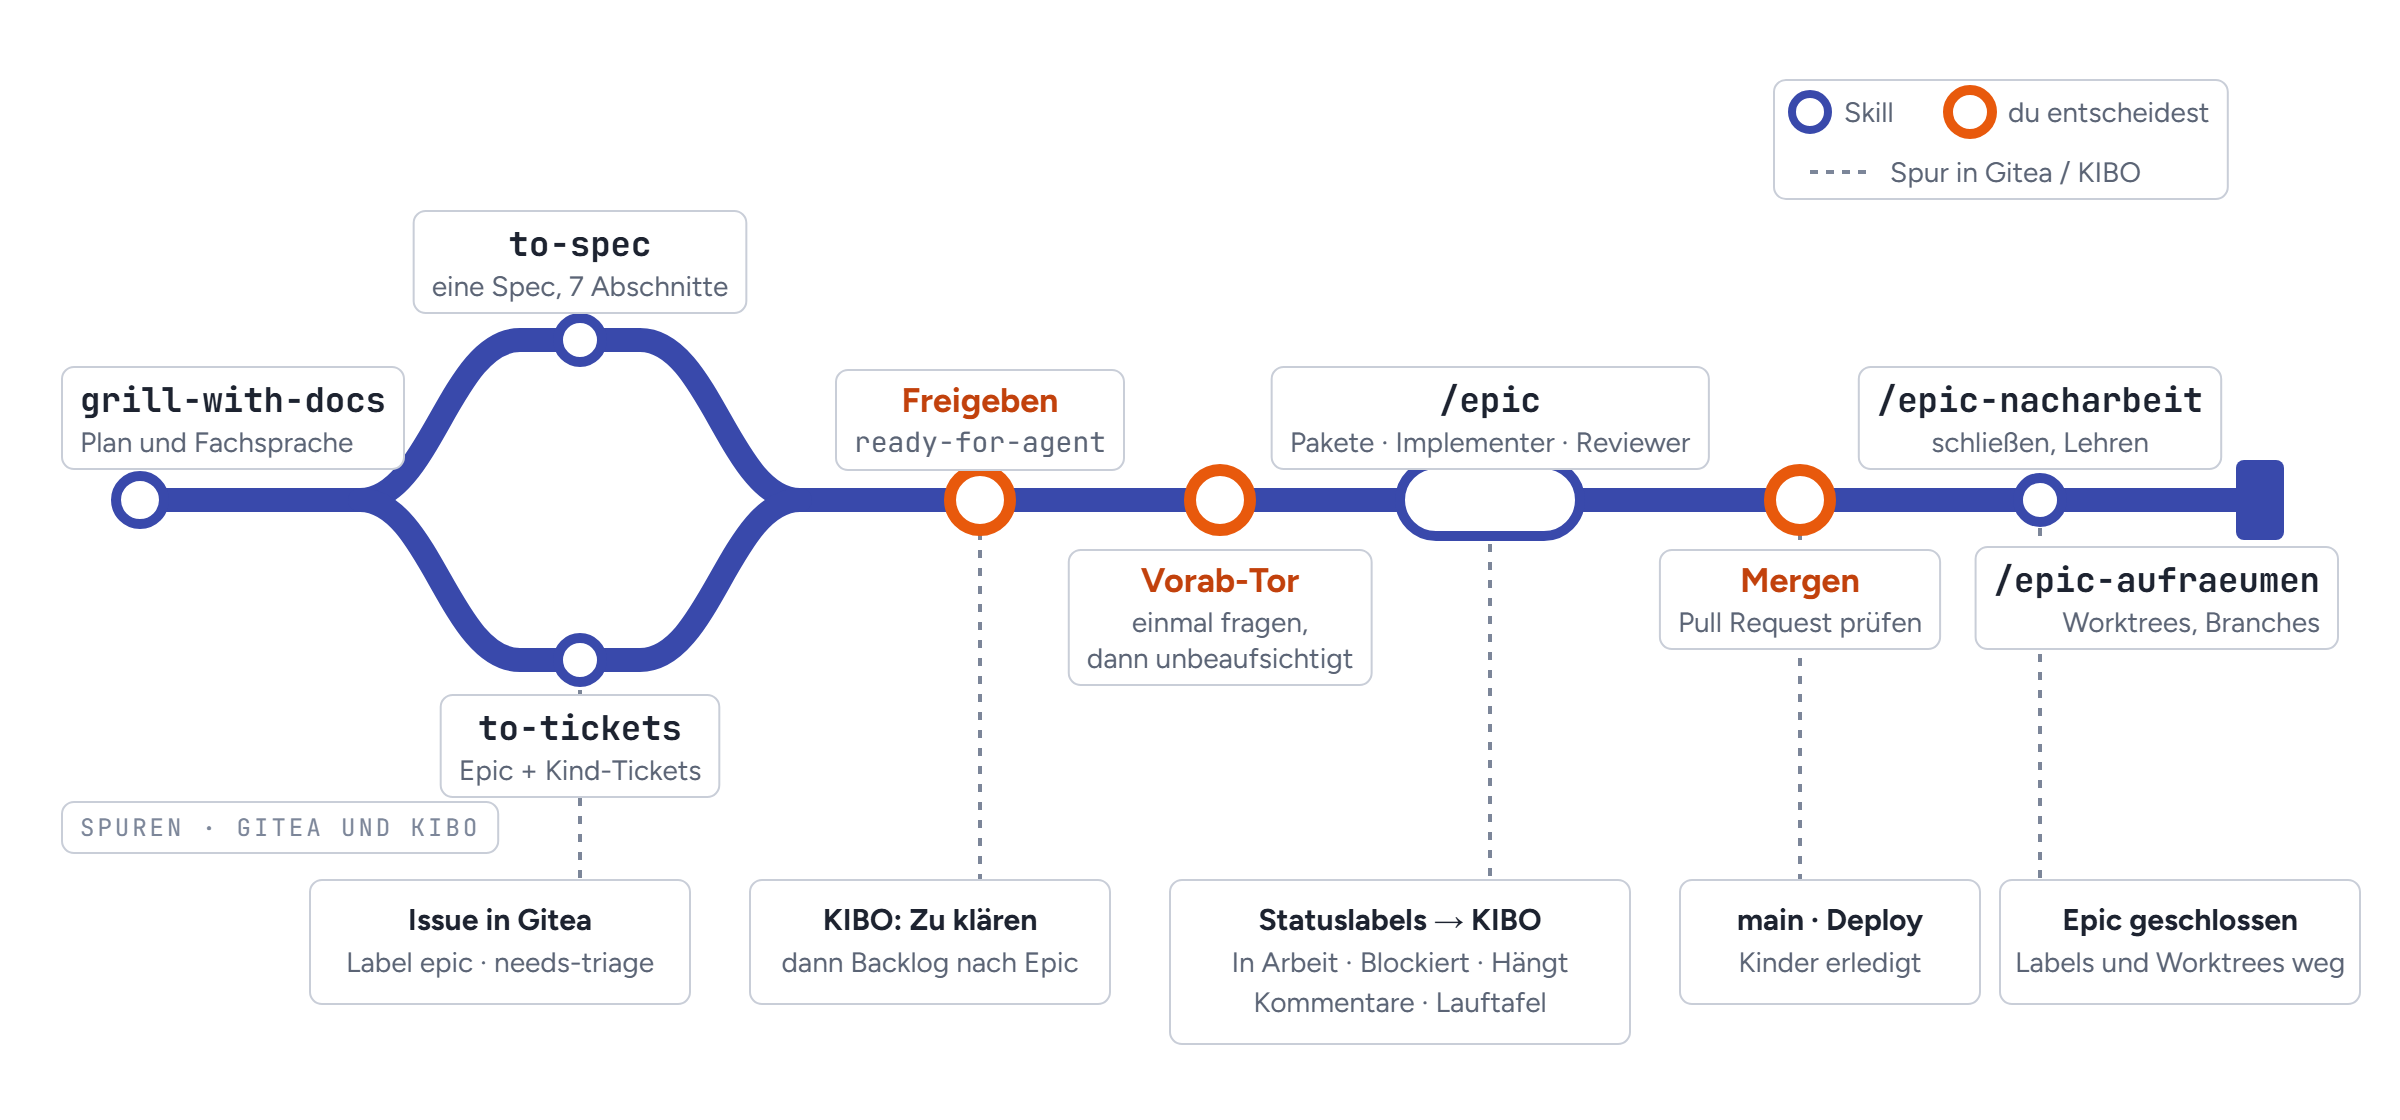
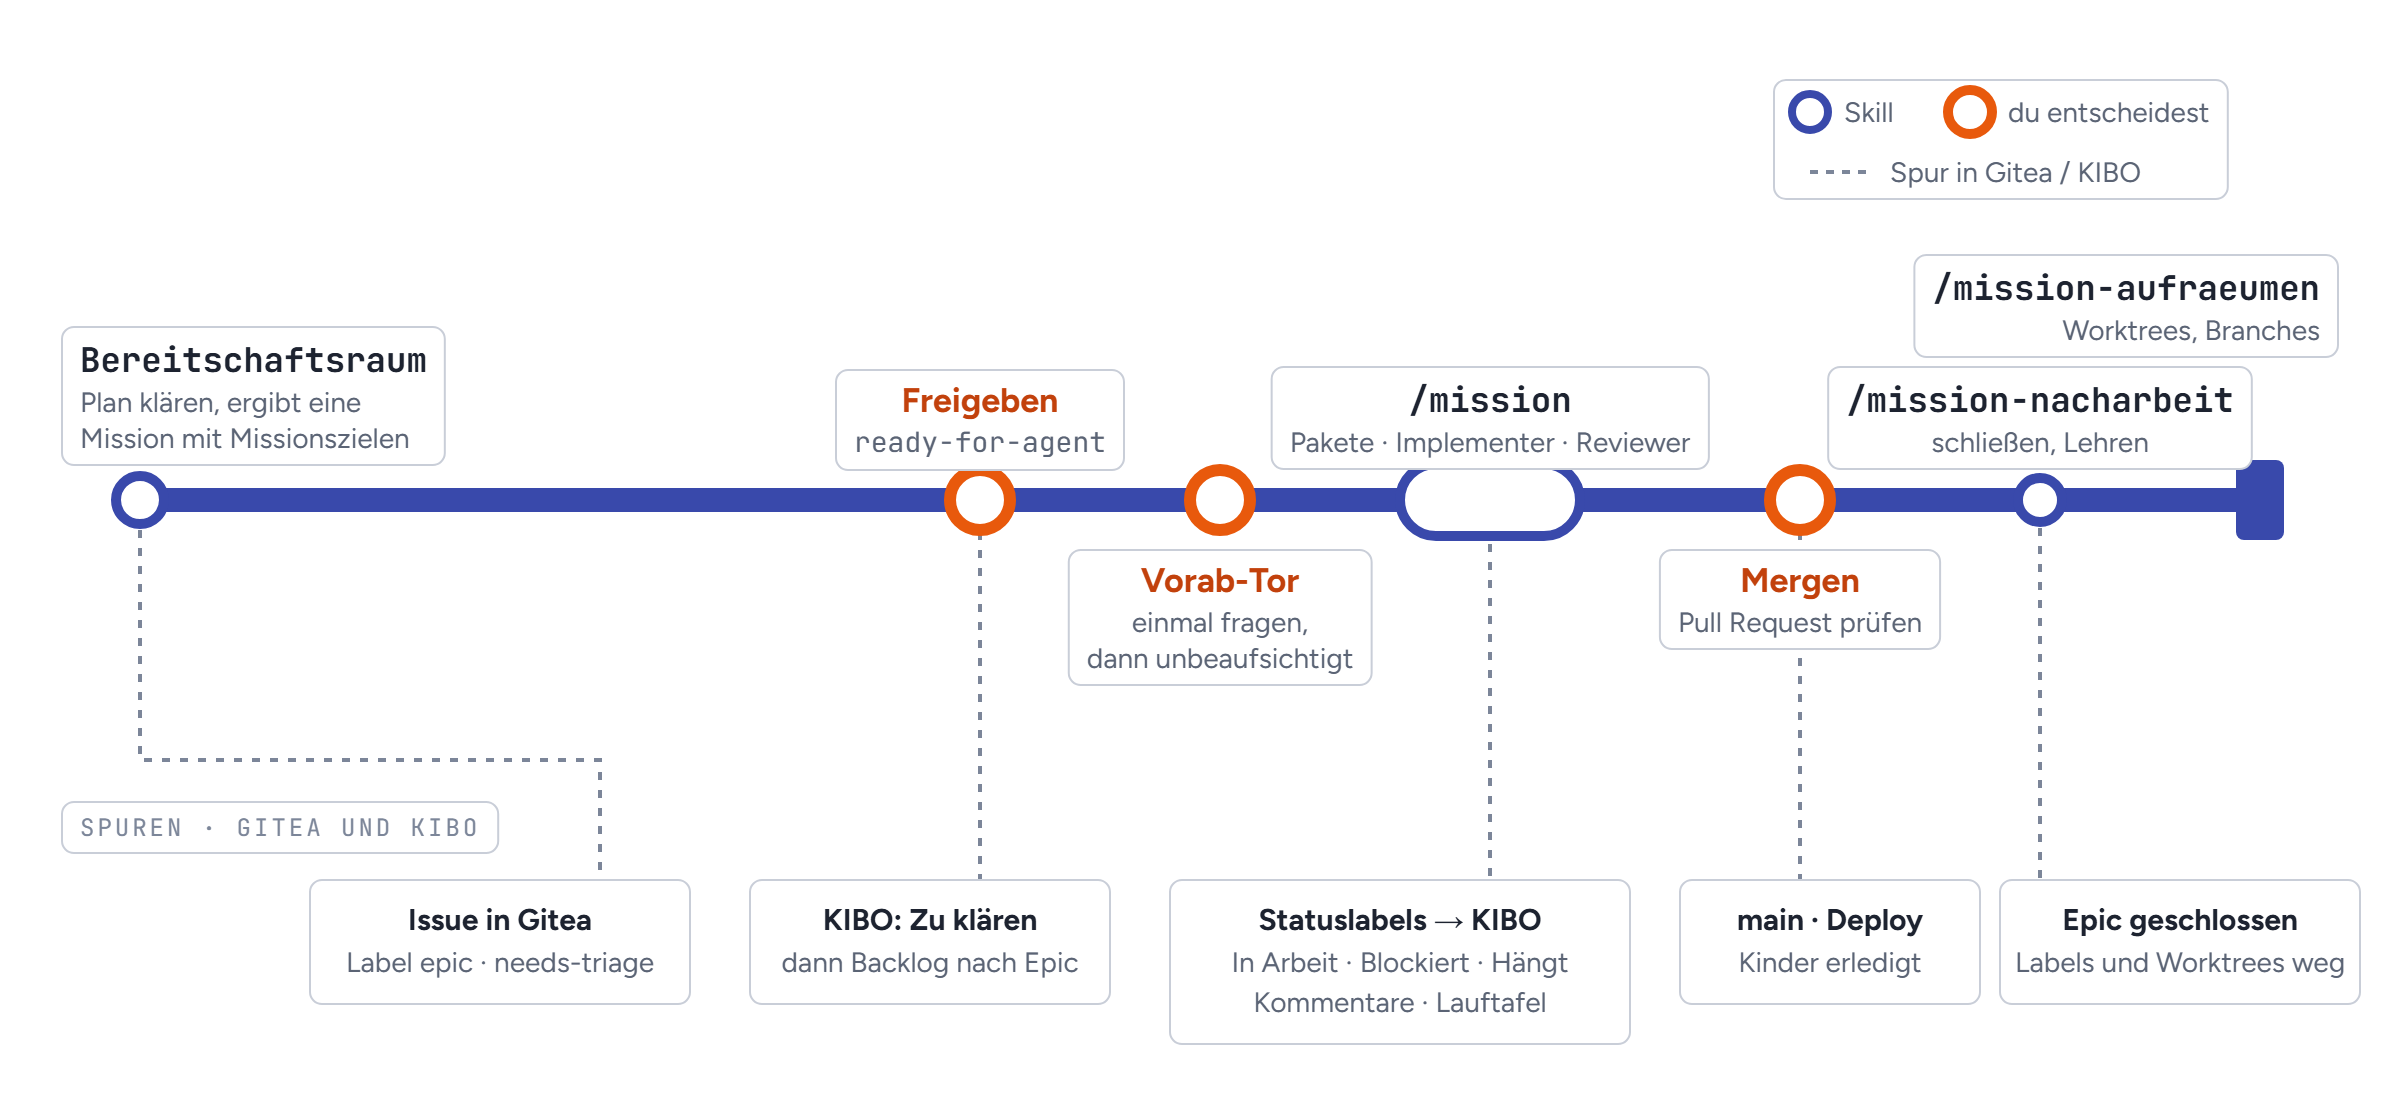
docs(assets): process picture starts at the Bereitschaftsraum (#130)
The picture still showed grill-with-docs, to-spec and to-tickets from the removed plugin
(ADR-0001). The fork is gone: the line runs straight from a station "Bereitschaftsraum",
whose result is the mission with its Missionsziele, to "Freigeben"; the dashed trace now
starts at that station. The skill stations carry their names after the Sprachraum switch
(/mission, /mission-nacharbeit, /mission-aufraeumen), like the text below the picture; the
longer last label moved above the line so it no longer covers "Mergen". PNG re-rendered at
2400 x 1120, transparent; alt text updated.

Closes #130

diff --git a/assets/prozess/prozess.html b/assets/prozess/prozess.html
@@ -17,12 +17,11 @@
         </g>
         <!-- main line -->
         <g fill="none" stroke-linecap="round" stroke-linejoin="round">
-          <path d="M70 250 H180 C215 250 225 170 260 170 H320 C355 170 365 250 400 250 H1130" stroke="#3949ab" stroke-width="12"/>
-          <path d="M180 250 C215 250 225 330 260 330 H320 C355 330 365 250 400 250" stroke="#3949ab" stroke-width="12"/>
+          <path d="M70 250 H1130" stroke="#3949ab" stroke-width="12"/>
         </g>
         <!-- drops to traces -->
         <g stroke="#7c8699" stroke-width="2" stroke-dasharray="4 5">
-          <line x1="290" y1="345" x2="290" y2="440"/>
+          <path d="M70 265 V380 H300 V440" fill="none"/>
           <line x1="490" y1="266" x2="490" y2="440"/>
           <line x1="745" y1="272" x2="745" y2="440"/>
           <line x1="900" y1="266" x2="900" y2="440"/>
@@ -31,8 +30,6 @@
         <!-- stations -->
         <g>
           <circle cx="70" cy="250" r="12" fill="#fff" stroke="#3949ab" stroke-width="5"/>
-          <circle cx="290" cy="170" r="11" fill="#fff" stroke="#3949ab" stroke-width="5"/>
-          <circle cx="290" cy="330" r="11" fill="#fff" stroke="#3949ab" stroke-width="5"/>
           <circle cx="490" cy="250" r="15" fill="#fff" stroke="#e8590c" stroke-width="6"/>
           <circle cx="610" cy="250" r="15" fill="#fff" stroke="#e8590c" stroke-width="6"/>
           <rect x="700" y="232" width="90" height="36" rx="18" fill="#fff" stroke="#3949ab" stroke-width="5"/>
@@ -42,13 +39,9 @@
         </g>
         <!-- station labels -->
         <g class="plates" font-family="Figtree" fill="#1d2330">
-          <text x="40" y="206" font-family="JetBrains Mono" font-weight="700" font-size="17">grill-with-docs</text>
-          <text x="40" y="226" font-size="14" fill="#5b6475">Plan und Fachsprache</text>
-
-          <text x="290" y="128" text-anchor="middle" font-family="JetBrains Mono" font-weight="700" font-size="17">to-spec</text>
-          <text x="290" y="148" text-anchor="middle" font-size="14" fill="#5b6475">eine Spec, 7 Abschnitte</text>
-          <text x="290" y="370" text-anchor="middle" font-family="JetBrains Mono" font-weight="700" font-size="17">to-tickets</text>
-          <text x="290" y="390" text-anchor="middle" font-size="14" fill="#5b6475">Epic + Kind-Tickets</text>
+          <text x="40" y="186" font-family="JetBrains Mono" font-weight="700" font-size="17">Bereitschaftsraum</text>
+          <text x="40" y="206" font-size="14" fill="#5b6475">Plan klären, ergibt eine</text>
+          <text x="40" y="224" font-size="14" fill="#5b6475">Mission mit Missionszielen</text>
 
           <text x="490" y="206" text-anchor="middle" font-weight="700" font-size="17" fill="#c2410c">Freigeben</text>
           <text x="490" y="226" text-anchor="middle" font-family="JetBrains Mono" font-size="14" fill="#5b6475">ready-for-agent</text>
@@ -57,17 +50,17 @@
           <text x="610" y="316" text-anchor="middle" font-size="14" fill="#5b6475">einmal fragen,</text>
           <text x="610" y="334" text-anchor="middle" font-size="14" fill="#5b6475">dann unbeaufsichtigt</text>
 
-          <text x="745" y="206" text-anchor="middle" font-family="JetBrains Mono" font-weight="700" font-size="17">/epic</text>
+          <text x="745" y="206" text-anchor="middle" font-family="JetBrains Mono" font-weight="700" font-size="17">/mission</text>
           <text x="745" y="226" text-anchor="middle" font-size="14" fill="#5b6475">Pakete · Implementer · Reviewer</text>
 
           <text x="900" y="296" text-anchor="middle" font-weight="700" font-size="17" fill="#c2410c">Mergen</text>
           <text x="900" y="316" text-anchor="middle" font-size="14" fill="#5b6475">Pull Request prüfen</text>
 
-          <text x="1020" y="206" text-anchor="middle" font-family="JetBrains Mono" font-weight="700" font-size="17">/epic-nacharbeit</text>
+          <text x="1020" y="206" text-anchor="middle" font-family="JetBrains Mono" font-weight="700" font-size="17">/mission-nacharbeit</text>
           <text x="1020" y="226" text-anchor="middle" font-size="14" fill="#5b6475">schließen, Lehren</text>
 
-          <text x="1160" y="296" text-anchor="end" font-family="JetBrains Mono" font-weight="700" font-size="17">/epic-aufraeumen</text>
-          <text x="1160" y="316" text-anchor="end" font-size="14" fill="#5b6475">Worktrees, Branches</text>
+          <text x="1160" y="150" text-anchor="end" font-family="JetBrains Mono" font-weight="700" font-size="17">/mission-aufraeumen</text>
+          <text x="1160" y="170" text-anchor="end" font-size="14" fill="#5b6475">Worktrees, Branches</text>
         </g>
         <!-- traces -->
         <text class="plate" x="40" y="418" font-family="JetBrains Mono" font-size="12" letter-spacing="1.5" fill="#7c8699">SPUREN · GITEA UND KIBO</text>

diff --git a/mission/README.md b/mission/README.md
@@ -7,7 +7,7 @@ Projektadapters in [`references/adapter.md`](references/adapter.md), die Skripte
 
 ## Der Ablauf
 
-![Schienenplan: grill-with-docs klärt Plan und Fachsprache; to-spec oder to-tickets schneiden daraus eine Mission; du gibst sie mit ready-for-agent frei, beantwortest am Vorab-Tor einmal alle Fragen und dockst am Ende den Pull Request an; dazwischen setzt /mission die Pakete um; danach schließen /mission-nacharbeit und /mission-aufraeumen ab. Darunter die Spuren in Gitea und KIBO: Labels, Statuslabels, Kommentare, Lauftafel, erledigte Tickets.](../assets/prozess/prozess.png)
+![Schienenplan: Im Bereitschaftsraum wird der Plan geklärt, daraus entsteht eine Mission mit Missionszielen; du gibst sie mit ready-for-agent frei, beantwortest am Vorab-Tor einmal alle Fragen und dockst am Ende den Pull Request an; dazwischen setzt /mission die Pakete um; danach schließen /mission-nacharbeit und /mission-aufraeumen ab. Darunter die Spuren in Gitea und KIBO: Labels, Statuslabels, Kommentare, Lauftafel, erledigte Tickets.](../assets/prozess/prozess.png)
 
 Die orangen Halte sind die Stellen, an denen du entscheidest. Dazwischen läuft alles ohne
 Rückfrage; den Stand zeigt die Forge.

diff --git a/assets/prozess/README.md b/assets/prozess/README.md
@@ -14,3 +14,6 @@ Netz.
   --virtual-time-budget=8000 --window-size=1200,560 \
   --screenshot="$(cygpath -w $PWD)\prozess.png" "file:///$(cygpath -m $PWD)/prozess.html"
 ```
+
+Ohne Edge geht derselbe Aufruf mit Chrome (`/c/Program Files/Google/Chrome/Application/chrome.exe`),
+dazu `--user-data-dir=<leerer Ordner>`, damit kein Profil berührt wird.
